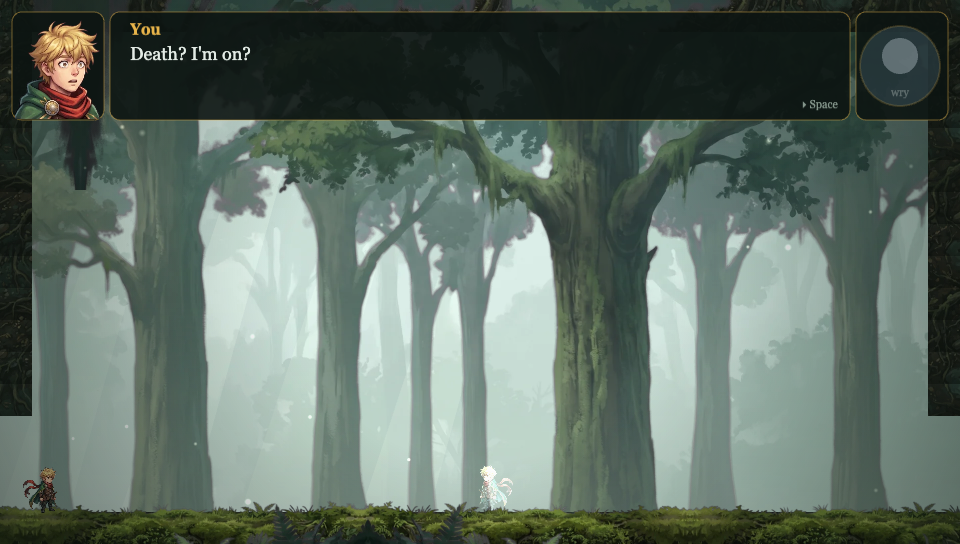
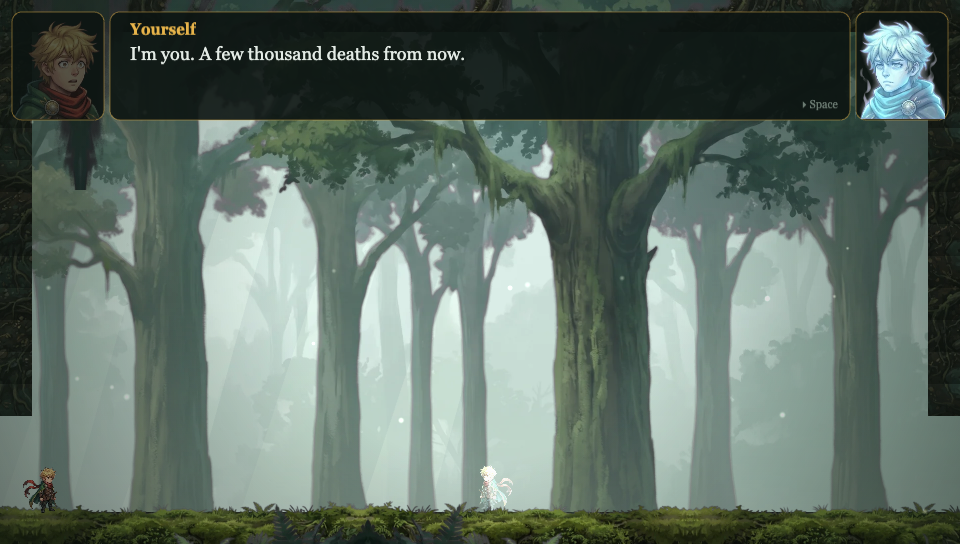
Guide dialogue portraits (8 expressions, mirrored to face the hero)

Changed region(s): [[0.875, 0.0312, 1.0, 0.2188], [0.0, 0.0312, 0.125, 0.2188], [0.125, 0.0312, 0.5, 0.125]]

diff --git a/dialogue.js b/dialogue.js
@@ -2,13 +2,13 @@
 // right, a name, and text that types out. Space, Enter or E continues (pressing early shows the whole
 // line). While it's open the hero can't move. Each script plays once per session.
 //
-// Portraits: assets/portraits/hero.webp (8 faces) and guide.webp (6 faces), cut from the expression
+// Portraits: assets/portraits/hero.webp and guide.webp (8 faces each), cut from the expression
 // sheets with: node tools/sheet.mjs <sheet> assets/portraits/hero.webp --grid --frames=4 --rows=2 --height=192
-// (guide: --frames=3 --rows=2). Until they exist, a placeholder circle shows the face's name.
+// (same for the guide). Until they exist, a placeholder circle shows the face's name.
 
 const FACES = {
   hero: ['neutral', 'startled', 'pained', 'exhausted', 'determined', 'relieved', 'thinking', 'sad'],
-  guide: ['wry', 'amused', 'solemn', 'sad', 'thinking', 'warm'],
+  guide: ['wry', 'amused', 'solemn', 'sad', 'weary', 'skeptical', 'thinking', 'warm'], // painted facing right; mirrored
 };
 const NAMES = { hero: 'You', guide: '???' };
 const H = (face, text) => ({ who: 'hero', face, text });
@@ -79,7 +79,8 @@ const Dialogue = {
       if (scene.textures.exists(key)) {
         const tex = scene.textures.get(key), img = tex.getSourceImage(), n = FACES[who].length, fw = img.width / n;
         if (!tex.has(0)) for (let i = 0; i < n; i++) tex.add(i, 0, i * fw, 0, fw, img.height);
-        return scene.add.image(x, 119, key, 0).setOrigin(0.5, 1).setScale(100 / img.height); // bust sits on the slot's floor
+        return scene.add.image(x, 119, key, 0).setOrigin(0.5, 1).setScale(100 / img.height) // bust sits on the slot's floor
+          .setFlipX(who === 'guide'); // he faces the hero, across the panel
       }
       // Placeholder: a framed circle in the character's colours, with the face name.
       const g = scene.add.graphics();

diff --git a/docs/PROMPTS.md b/docs/PROMPTS.md
@@ -119,7 +119,7 @@ One image per character with every expression in a grid, so the face stays consi
    > An expression sheet of the attached young treasure hunter (blond, deep green cloak, wavy red scarf, gold amulet), 8 portraits in a grid of 4 columns and 2 rows, in this order: 1. calm neutral; 2. startled and confused; 3. in pain, wincing, shaken; 4. exhausted and numb, eyes heavy; 5. determined, jaw set; 6. relieved, a soft tired smile; 7. thinking, hand on chin, glancing up; 8. sad, eyes cast down. Wide 2:1.
 
 2. **The guide (his ghost from another timeline) → `guide-faces.png`**
-   > An expression sheet of the ghost of the attached young treasure hunter, from a timeline where he has died countless times. Every death sent him back in time, so he looks exactly the same as the attached character: the same age, face, blond hair, green cloak, wavy red scarf and gold amulet, with no scars or wear. The only differences: his whole figure is a translucent blue-white ghost with a faint soft glow, the same blue-white as a soul, and his eyes are tired, knowing and slightly hollow, the look of someone who has seen this all before. 6 portraits in a grid of 3 columns and 2 rows, facing left, in this order: 1. wry and knowing, half smile; 2. amused; 3. solemn; 4. quietly sad; 5. thinking, eyes narrowed, hand at his jaw; 6. warm and encouraging smile. Wide 3:2.
+   > An expression sheet of the ghost of the attached young treasure hunter, from a timeline where he has died countless times. Every death sent him back in time, so he looks exactly the same as the attached character: the same age, face, blond hair, green cloak, wavy red scarf and gold amulet, with no scars or wear. The only differences: his whole figure is a translucent blue-white ghost with a faint soft glow, the same blue-white as a soul, and his eyes are tired, knowing and slightly hollow, the look of someone who has seen this all before. 8 portraits in a grid of 4 columns and 2 rows, in this order: 1. wry and knowing, half smile; 2. amused; 3. solemn; 4. quietly sad; 5. weary, eyes down; 6. skeptical, one eye narrowed, hand at his jaw; 7. thinking, hand at his jaw; 8. warm and encouraging smile. Wide 2:1. (He's mirrored in the game to face the hero.)
 
 ## Drawn in code
 
